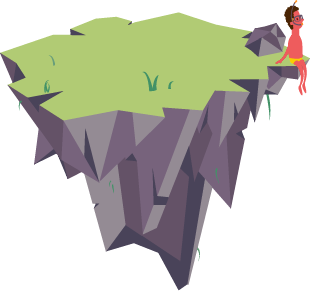
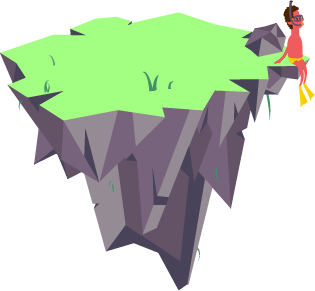
changed green color on all graphics

diff --git a/app/styles/main.css b/app/styles/main.css
@@ -555,7 +555,7 @@ header {
   position: absolute;
   bottom: 0;
   left: 0;
-  background: url("../images/front.png");
+  background: url("../images/front-new.png");
   background-size: cover;
   background-position: 50% 100%; }
 
@@ -565,7 +565,7 @@ header {
   position: absolute;
   top: 100%;
   left: 0;
-  background: url("../images/btm.png");
+  background: url("../images/bottom-new.png");
   background-size: cover;
   background-position: 50% 0%;
   z-index: 2; }

diff --git a/app/sass/partials/_header.scss b/app/sass/partials/_header.scss
@@ -75,7 +75,7 @@ header {
 	position:absolute;
 	bottom:0;
 	left:0;
-	background:url('../images/front.png');
+	background:url('../images/front-new.png');
 	background-size:cover;
 	background-position:50% 100%;
 }
@@ -85,7 +85,7 @@ header {
 	position:absolute;
 	top:100%;
 	left:0;
-	background:url('../images/btm.png');
+	background:url('../images/bottom-new.png');
 	background-size:cover;
 	background-position:50% 0%;
 	z-index:2;

diff --git a/app/index.html b/app/index.html
@@ -40,7 +40,7 @@
 
 
 			<div class="island-wrap" data-stellar-ratio="0.35">
-				<div class="island"><img src="images/island.png" alt=""></div>
+				<div class="island"><img src="images/island-new.png" alt=""></div>
 				<div class="island-shadow"></div>
 			</div>
 
